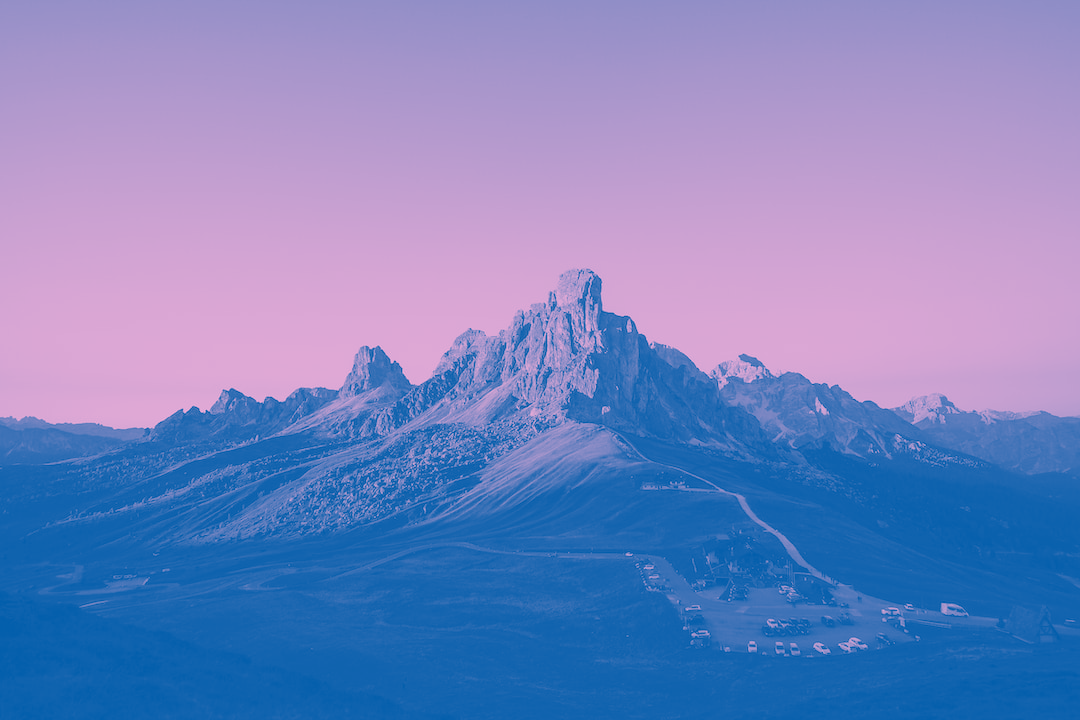
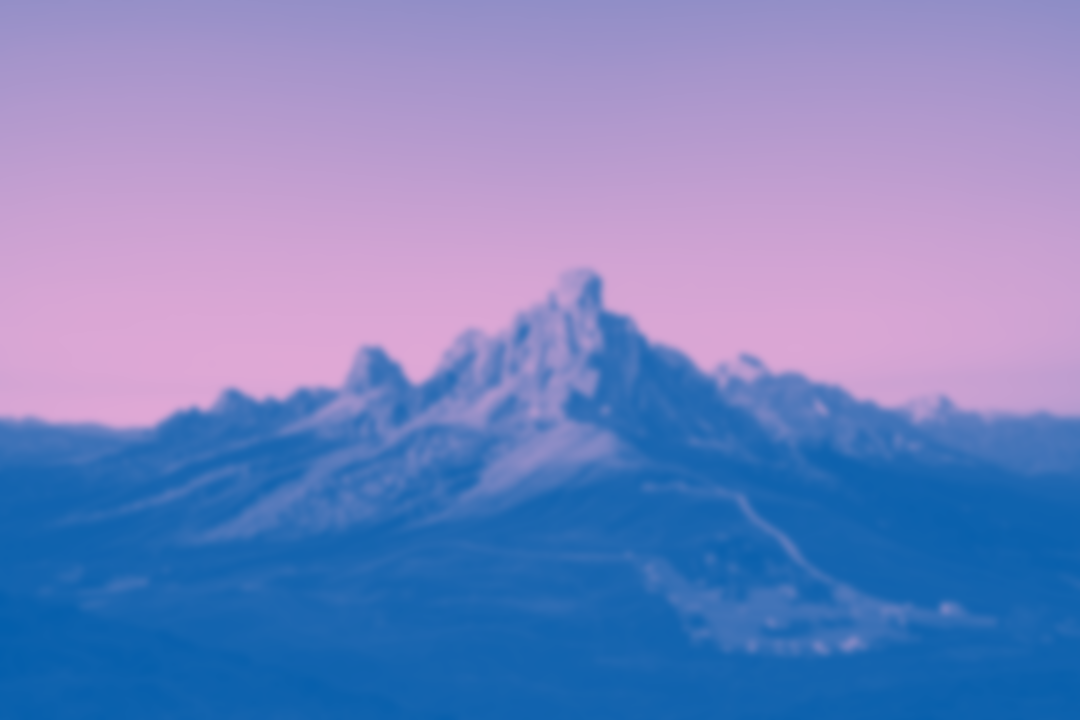
chore: all CSS for blur bg filter

diff --git a/src/components/pages/About.css b/src/components/pages/About.css
@@ -1,13 +1,4 @@
-/* .body {
-  background: url(./duotone.png) no-repeat center center fixed;
-  -webkit-background-size: cover;
-  -moz-background-size: cover;
-  -o-background-size: cover;
-  background-size: cover;
-} */
-
 .about {
-  backdrop-filter: blur(3px);
   margin: 150px 100px 0px 100px;
   text-align: center;
   justify-content: center;
@@ -22,7 +13,6 @@
     margin: 100px 10px 0px 10px;
     width: 10%x;
     font-size: 70%;
-    backdrop-filter: blur(2px);
   }
   .about p {
     font-size: 160%;
@@ -38,7 +28,6 @@
     margin: 100px 10px 0px 10px;
     width: 10%x;
     font-size: 70%;
-    backdrop-filter: blur(2px);
   }
   .about p {
     font-size: 250%;

diff --git a/src/components/pages/Navbar.css b/src/components/pages/Navbar.css
@@ -7,7 +7,6 @@
   text-decoration: none;
   text-align: right;
   box-shadow: -2px 12px 31px -12px rgba(0, 0, 0, 0.59);
-
   -webkit-box-shadow: -2px 12px 31px -12px rgba(0, 0, 0, 0.59);
   -moz-box-shadow: -2px 12px 31px -12px rgba(0, 0, 0, 0.59);
 }

diff --git a/src/components/pages/Home.css b/src/components/pages/Home.css
@@ -14,7 +14,6 @@
   color: rgb(35, 35, 35);
 }
 .home-background {
-  backdrop-filter: blur(2px);
 }
 .arrowIcon {
   margin: 0% 0% 0% 50%;

diff --git a/src/components/pages/ClimbsMain.css b/src/components/pages/ClimbsMain.css
@@ -1,4 +1,3 @@
 .climbs-main-con {
-  backdrop-filter: blur(3px);
   text-align: center;
 }
